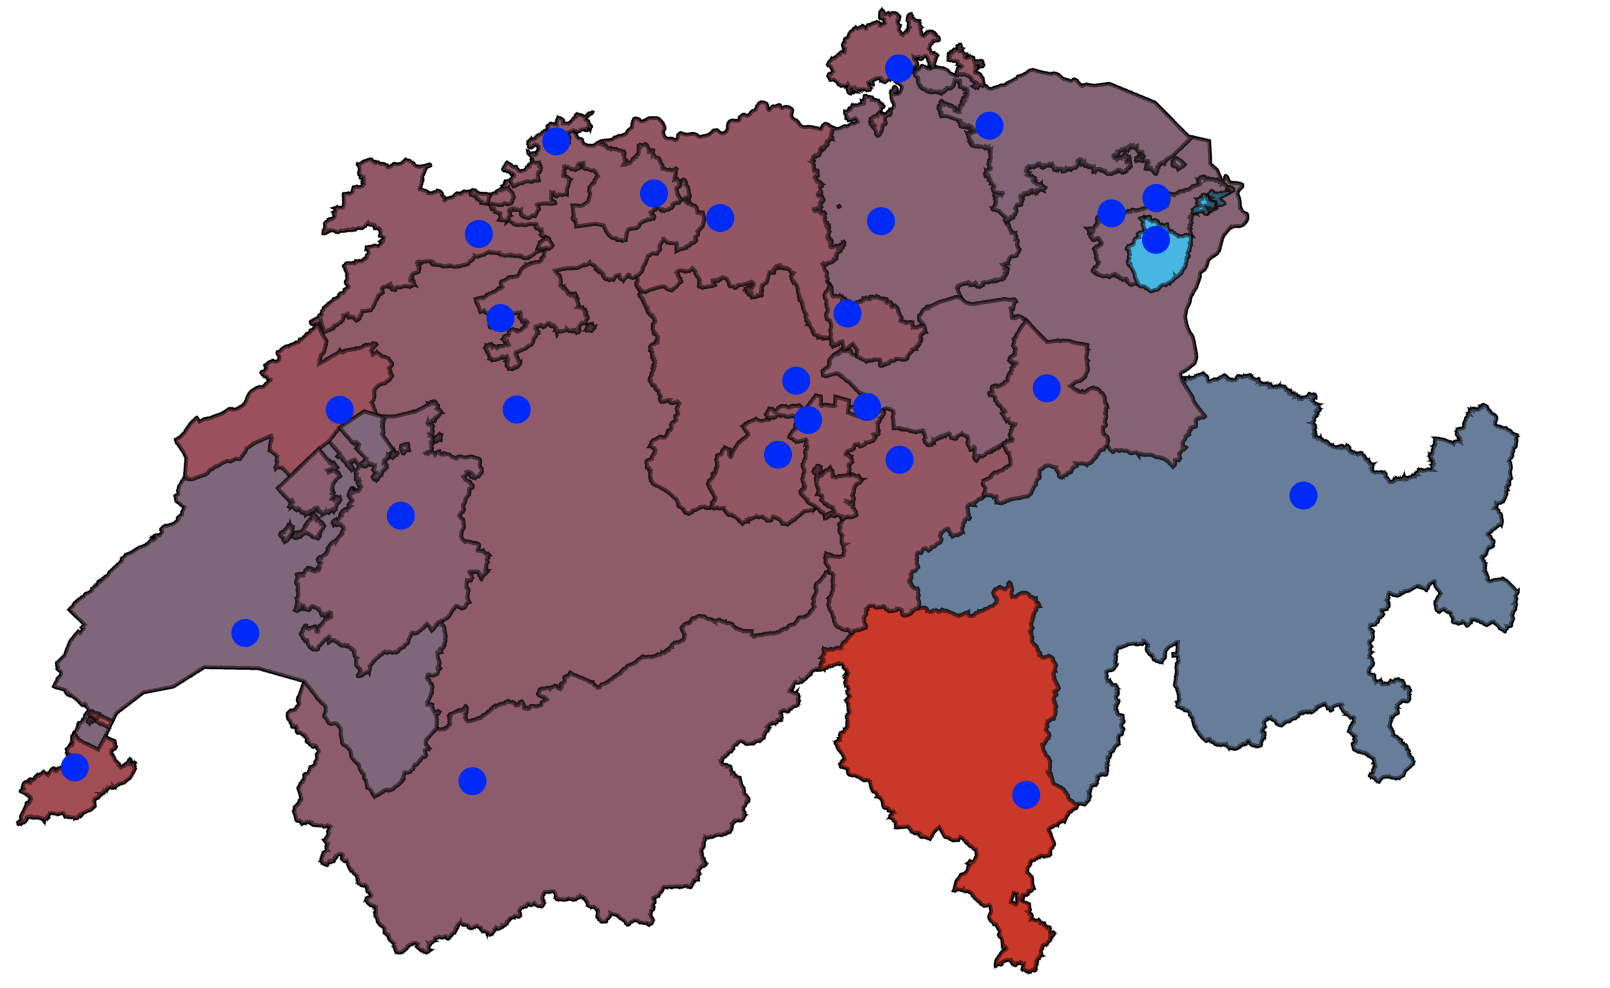
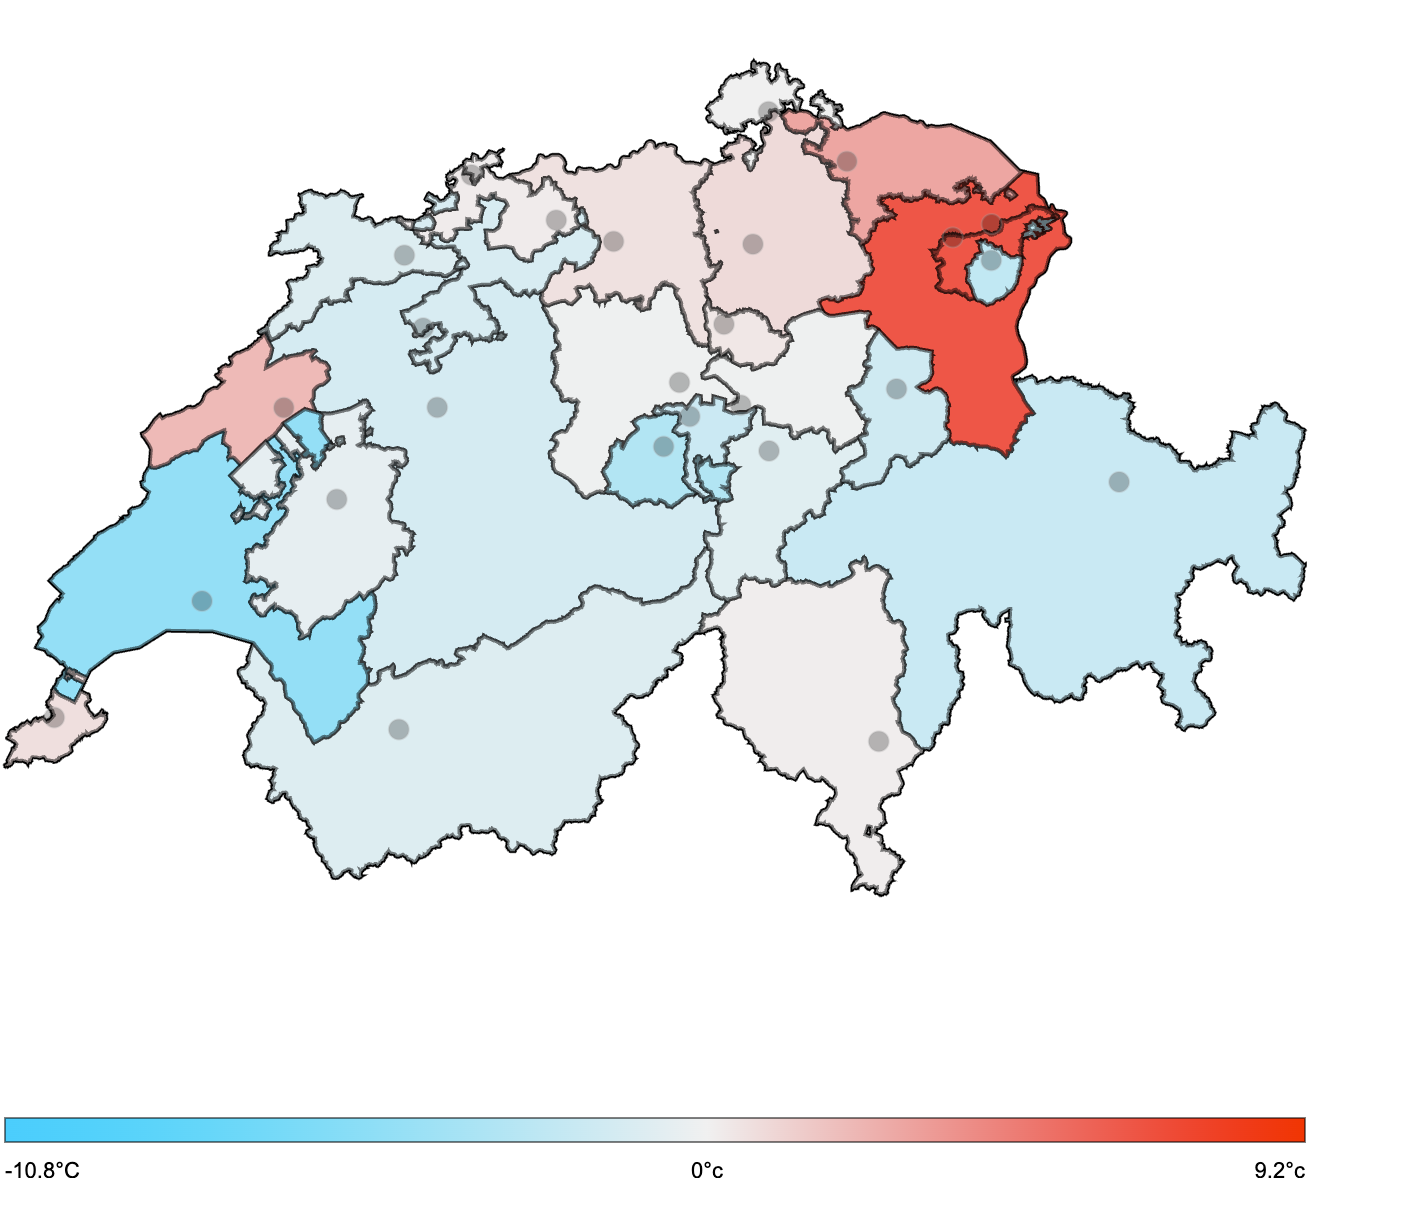
modif READ.me + ajout des nouvelles images

diff --git a/projet.js b/projet.js
@@ -269,7 +269,8 @@ d_station.forEach(d=>{
 
 //couleur des cantons en fonction de la température moyenne du jour choisi 
 const tempMinAnnee = d3.min(d_station, d => +d.tmin)
-        const tempMaxAnnee = d3.max(d_station, d => +d.tmax)
+const tempMaxAnnee = d3.max(d_station, d => +d.tmax)
+
 
 const colorScale=d3.scaleLinear()
     .domain([tempMinAnnee,0, tempMaxAnnee])

diff --git a/README.md b/README.md
@@ -50,7 +50,7 @@ Dans un deuxième temps, nous avons du établir dans notre code un tableau de co
 
 ## Expliquer les visualisations produites
 
-La heat map permet de visualiser les écarts de températures entre chaque canton sur le territoire de la suisse en fonction du jour sélectionné pour l'année 2025. Le gradient de couleur utiliser est le rouge pour les températures chaudes et le bleu pour les températures froides cf.[image_couleur_hm]. Une étiquette *tooltip*, visible par un mouseover, a également été créé afin d'avoir des informations supplémentaire comme le nom du canton, la température maximale et minimale ce jour-ci et également la température moyenne qui a été utilisée pour déterminer la couleur du canton cf.[image_tooltip_hm]. 
+La heat map permet de visualiser les écarts de températures entre chaque canton sur le territoire de la suisse en fonction du jour sélectionné pour l'année 2025. Le gradient de couleur utiliser est le rouge pour les températures chaudes et le bleu pour les températures froides cf.[image_couleur_hm]. Une étiquette *tooltip*, visible par un mouseover, a également été créé afin d'avoir des informations supplémentaire comme le nom du canton, la température maximale et minimale ce jour-ci et également la température moyenne qui a été utilisée pour déterminer la couleur du canton cf.[image_tooltip_hm]. Il est également possible de cliquer sur les points représentant les différentes stations des cantons afin de mettre à jour la spiderchart, en fonction du choix. Le choix du jour dans l'année met à jour non seulement notre carte mais également les deux autres visualisations. 
 
 Une spider-chart fut créée, dans le but de visualiser les moyennes de *wspd*, *wpgt*, *pres* et *tsun*, du canton sélectionné au préalable, ainsi que le mois choisi. Lorsque l'utilisateur percoit la chart, il se retrouve avec deux axes, qui indiquent quatre mesures différentes. Les noms inscrits à côté de leurs extrémités correspondantes diffèrent du nom de colonnes originales, pour une meilleure compréhension des données. L'image [image_axes] présente les valeurs de *wspd* sous *Vent*; *wpgt* sous *Rafale de Vent*; *pres* sous *Pression*; *tsun* sous *Ensoleillement*. Si le polygone bleu est établi à partir des moyennes mensuelles du canton sélectionné, le rouge permet une visualisation des moyennes à titre annuelles de ce même-canton.
 
